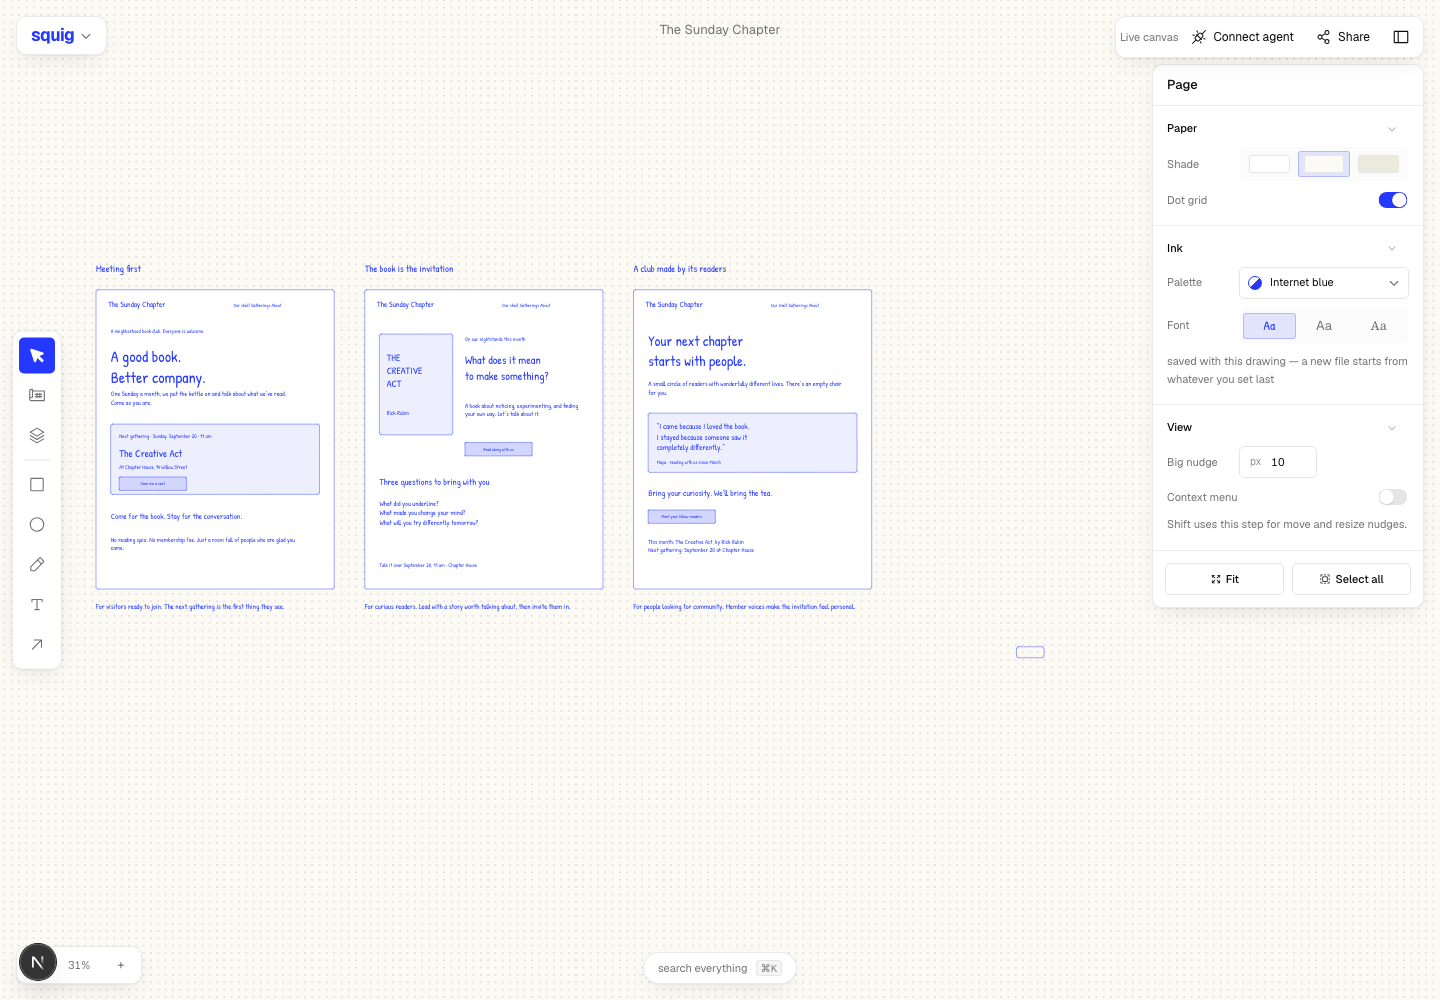
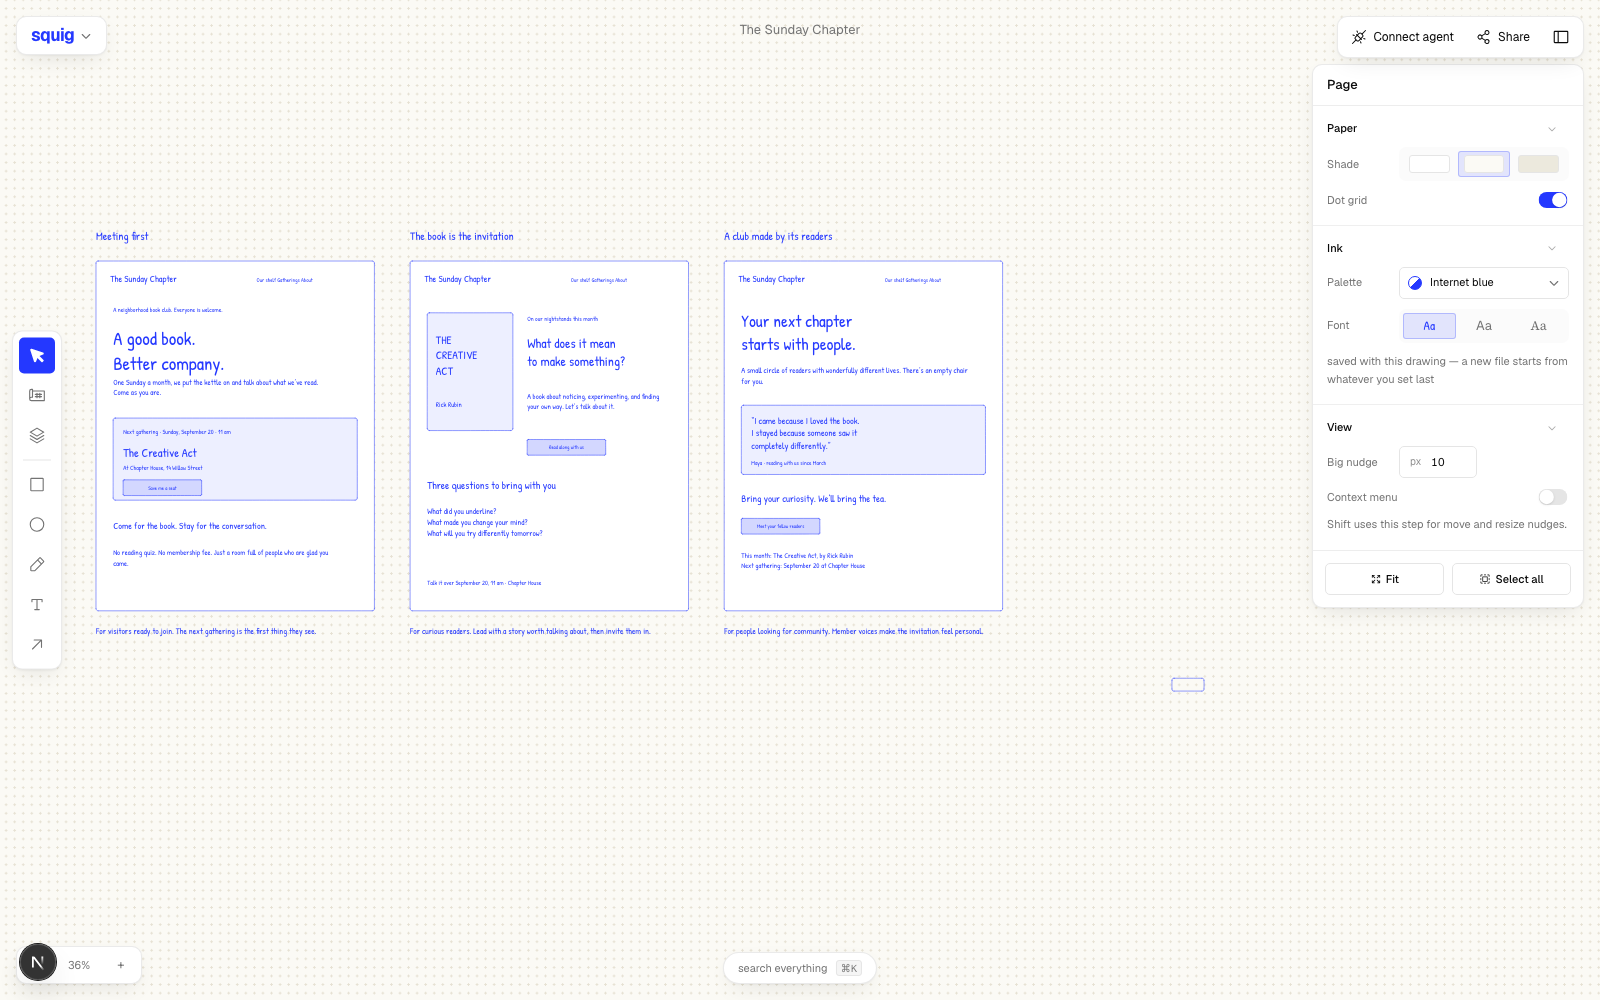
Keep shared canvas save feedback quiet and accurate

diff --git a/components/agent/bridge.tsx b/components/agent/bridge.tsx
@@ -1,5 +1,6 @@
 "use client"
 import { useEffect, useState, useRef } from "react"
+import { useCanvasSyncIssue } from "@/lib/agent/sync-status"
 import { useSquig } from "@/lib/store"
 import { agentRequest, KEY_STORAGE } from "@/lib/agent/client"
 import { unionBox } from "@/lib/types"
@@ -38,6 +39,15 @@ const canvasStorage = (id: string) => `squig:canvas-key:${id}`
 export function AgentBridge() {
   const attaching = useRef<string | null>(null)
   const [status, setStatus] = useState("")
+  function reportIssue(message: string) {
+    setStatus(message)
+    useCanvasSyncIssue.setState({
+      issue: { docId: useSquig.getState().docId, message },
+    })
+  }
+  function clearIssue() {
+    useCanvasSyncIssue.setState({ issue: null })
+  }
   const [connected, setConnected] = useState(false)
   const [conflict, setConflict] = useState(false)
   const [panel, setPanel] = useState<"share" | "agent" | null>(null)
@@ -59,7 +69,7 @@ export function AgentBridge() {
     const key = canvasKey || localStorage.getItem(KEY_STORAGE)
     if (!key) {
       // eslint-disable-next-line react-hooks/set-state-in-effect -- browser-only connection hydration
-      setStatus("Open the full canvas invitation link to connect.")
+      reportIssue("Open the full canvas invitation link to connect.")
       return
     }
     if (canvasKey)
@@ -145,6 +155,7 @@ export function AgentBridge() {
           initialized = true
           setConnected(true)
           setConflict(false)
+          clearIssue()
           setStatus("Live canvas")
           return
         }
@@ -174,7 +185,7 @@ export function AgentBridge() {
         if (merged.conflicts.length) {
           stopped = true
           setConflict(true)
-          setStatus(
+          reportIssue(
             "You and another editor changed the same field. Your draft is preserved.",
           )
           return
@@ -198,7 +209,7 @@ export function AgentBridge() {
           if (next.conflicts.length) {
             stopped = true
             setConflict(true)
-            setStatus(
+            reportIssue(
               "Concurrent edit needs review; your draft is preserved.",
             )
             return
@@ -210,10 +221,12 @@ export function AgentBridge() {
           )
             apply(next.value)
           else if (!equal(duringSave, next.value)) baseline = current
+          clearIssue()
           setStatus("Live canvas · saved")
         } else {
           if (!equal(current, remote)) apply(remote)
           baseline = remote
+          clearIssue()
           setStatus(
             remoteChanged ? "Live canvas · new changes" : "Live canvas",
           )
@@ -222,7 +235,7 @@ export function AgentBridge() {
         if (!active) return
         const error = e as Error & { status?: number }
         // A racing commit is retried against the fresh revision next tick.
-        if (error.status !== 409) setStatus(error.message)
+        if (error.status !== 409) reportIssue(error.message)
       } finally {
         busy = false
       }
@@ -293,7 +306,7 @@ export function AgentBridge() {
       })
       setReload((v) => v + 1)
     } catch (e) {
-      setStatus((e as Error).message)
+      reportIssue((e as Error).message)
     } finally {
       connecting.current = false
     }
@@ -311,10 +324,7 @@ export function AgentBridge() {
     URL.revokeObjectURL(url)
   }
   return (
-    <div className="agent-sync">
-      <span className="agent-sync-status" role="status">
-        {status}
-      </span>
+    <div className="agent-sync" data-connected={connected}>
       {conflict && (
         <>
           <button onClick={preserve}>Download my draft</button>

diff --git a/components/chrome/file-name.tsx b/components/chrome/file-name.tsx
@@ -18,6 +18,7 @@
 // ---------------------------------------------------------------------------
 
 import { useEffect, useRef, useState } from "react"
+import { useCanvasSyncIssue } from "@/lib/agent/sync-status"
 import { useSquig } from "@/lib/store"
 
 /** grace period after a drag ends, so nudge-release-nudge doesn't strobe */
@@ -27,6 +28,9 @@ const SETTLE_MS = 160
 const SAVED_MS = 1800
 
 export function FileName() {
+  const docId = useSquig((s) => s.docId)
+  const syncIssue = useCanvasSyncIssue((s) => s.issue?.docId === docId ? s.issue.message : null)
+  const shared = docId.startsWith("agent_")
   const fileName = useSquig((s) => s.fileName)
   const renaming = useSquig((s) => s.renamingFile)
   const full = useSquig((s) => s.drawerFull)
@@ -86,8 +90,8 @@ export function FileName() {
   // stories, but the line is not the place for the story. The flash that
   // arrived with each said which it was; this says the part that outlives it,
   // which is the same part either way.
-  const stuck = full || stale
-  const note = stuck ? "not saved — export to keep this one" : saved ? "saved to this browser" : ""
+  const stuck = !!syncIssue || (!shared && (full || stale))
+  const note = syncIssue || (shared ? "" : stuck ? "not saved — export to keep this one" : saved ? "saved to this browser" : "")
 
   // renaming and the note both outrank the duck: neither should vanish because
   // the other hand started a drag

diff --git a/lib/store.ts b/lib/store.ts
@@ -624,6 +624,9 @@ function flushSave(get: () => SquigState, force = false) {
   // the look goes to prefs too, but only as the default a new file will start
   // from — the copy that matters travels inside the document below
   savePrefs({ look: lookOf(s), contextRow: s.contextRow, bigNudge: s.bigNudge, activeId: s.docId })
+  // Shared canvases persist through the cloud bridge. The local drawer's
+  // capacity and timestamp guards must not report cloud documents as unsaved.
+  if (s.docId.startsWith("agent_")) { dirty = false; return }
   // This tab has been told its document moved on without it. Not one more
   // write goes out until it is pointed at another document — ⌘S included,
   // since nobody pressing it is asking to throw away work they can't see.
@@ -775,6 +778,7 @@ function watchWindow(get: () => SquigState) {
       return
     }
     const s = get()
+    if (s.docId.startsWith("agent_")) return
     // e.key is null when the whole origin was cleared; docKey never is, so
     // that lands on "not ours" and this tab is left holding the only copy —
     // which is the truth, and the save that follows puts it back

diff --git a/components/agent/agent.css b/components/agent/agent.css
@@ -172,16 +172,6 @@
   align-items: center;
   gap: 4px;
 }
-.agent-sync-status {
-  max-width: 160px;
-  font:
-    11px var(--font-sans),
-    sans-serif;
-  color: var(--muted-foreground);
-  overflow: hidden;
-  white-space: nowrap;
-  text-overflow: ellipsis;
-}
 .canvas-action {
   display: inline-flex;
   align-items: center;
@@ -201,11 +191,6 @@
 .agent-copy-button:focus-visible {
   outline: 2px solid var(--sq-ink);
   outline-offset: 2px;
-}
-@media (max-width: 800px) {
-  .agent-sync-status {
-    display: none;
-  }
 }
 .docs-layout {
   display: grid;

diff --git a/lib/agent/sync-status.ts b/lib/agent/sync-status.ts
@@ -1,0 +1,8 @@
+"use client"
+import { create } from "zustand"
+
+// Only failures need persistent chrome. Scope them to the open document so
+// switching files cannot carry a cloud error into an unrelated local sketch.
+export const useCanvasSyncIssue = create<{
+  issue: { docId: string; message: string } | null
+}>(() => ({ issue: null }))

diff --git a/docs/agent-validation.md b/docs/agent-validation.md
@@ -21,7 +21,9 @@ page and approval API were removed.
   An existing local drawing can be connected in place. Also checks docs SEO,
   mobile overflow and browser errors. Sharing and agent setup have separate
   popovers; browser checks cover outside-click and Escape dismissal, clipboard
-  contents, temporary copy checkmarks and sidebar visibility.
+  contents, temporary copy checkmarks and sidebar visibility. Shared canvases
+  ignore local drawer quota/staleness warnings; a simulated cloud outage shows
+  one error beneath the filename and clears it after reconnecting.
 
 The tests use isolated workspaces and delete their fixtures. Run the browser
 suite with a running server and DATABASE_URL in .env.local. Install Chromium
